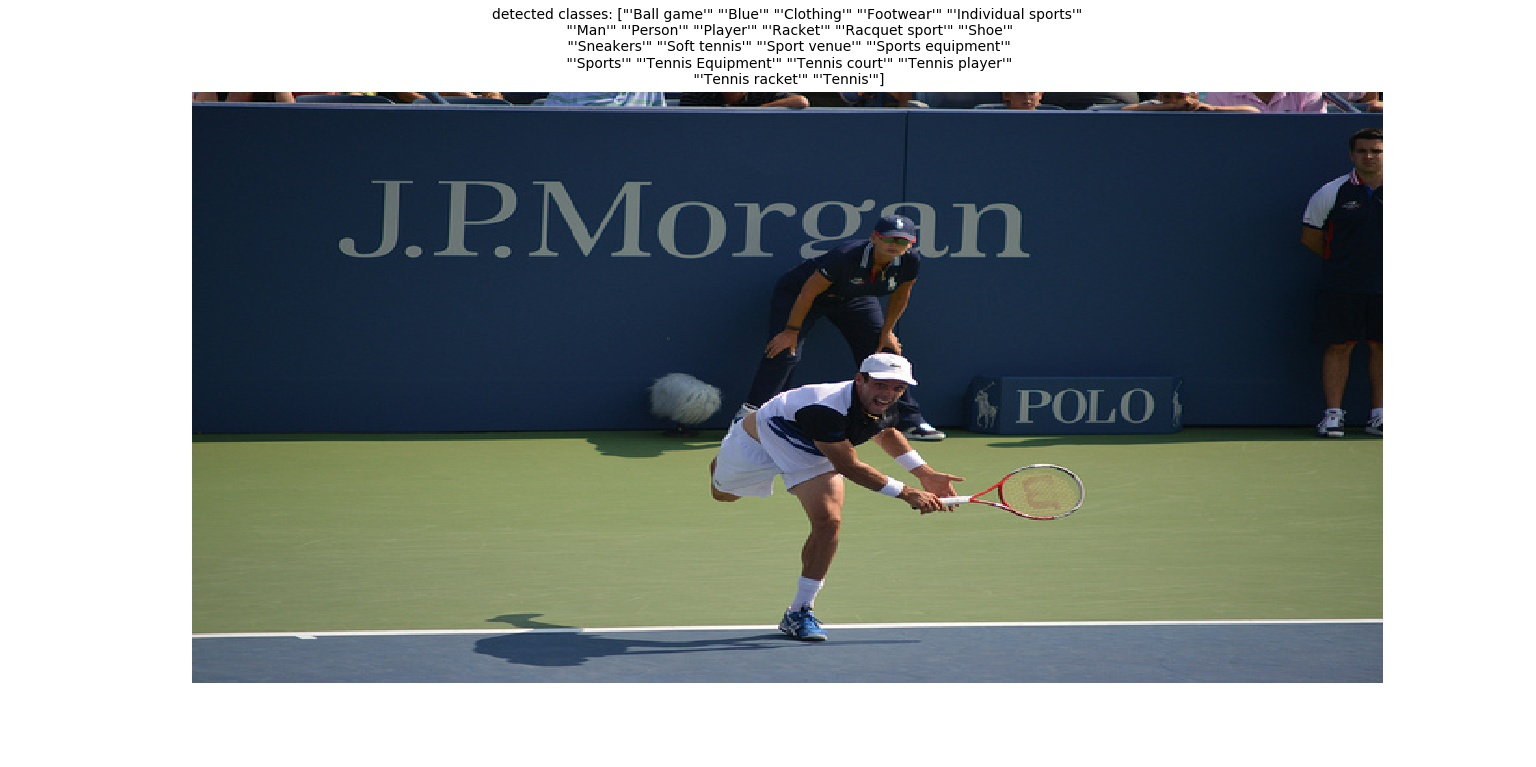
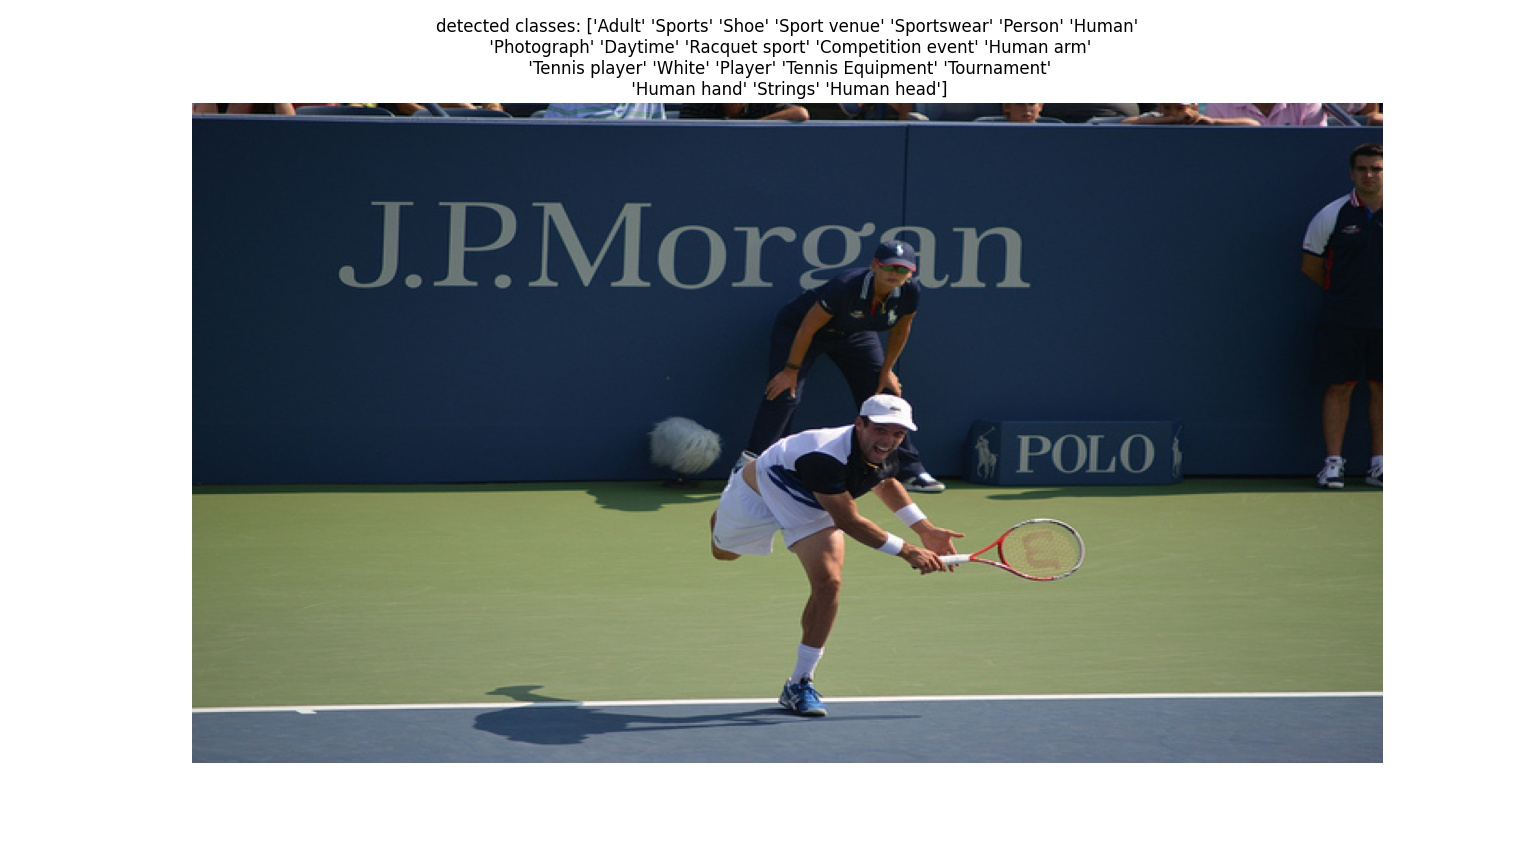
Open Images inference

diff --git a/infer.py b/infer.py
@@ -27,7 +27,7 @@ parser.add_argument('--model-name', type=str, default='tresnet_l')
 parser.add_argument('--image-size', type=int, default=448)
 # parser.add_argument('--dataset-type', type=str, default='MS-COCO')
 parser.add_argument('--th', type=float, default=0.75)
-
+parser.add_argument('--top-k', type=float, default=20)
 # ML-Decoder
 parser.add_argument('--use-ml-decoder', default=1, type=int)
 parser.add_argument('--num-of-groups', default=-1, type=int)  # full-decoding
@@ -66,7 +66,15 @@ def main():
     tensor_batch = torch.unsqueeze(tensor_img, 0).cuda().half() # float16 inference
     output = torch.squeeze(torch.sigmoid(model(tensor_batch)))
     np_output = output.cpu().detach().numpy()
-    detected_classes = classes_list[np_output > args.th]
+
+
+    ## Top-k predictions
+    # detected_classes = classes_list[np_output > args.th]
+    idx_sort = np.argsort(-np_output)
+    detected_classes = np.array(classes_list)[idx_sort][: args.top_k]
+    scores = np_output[idx_sort][: args.top_k]
+    idx_th = scores > args.th
+    detected_classes = detected_classes[idx_th]
     print('done\n')
 
     # displaying image

diff --git a/MODEL_ZOO.md b/MODEL_ZOO.md
@@ -8,6 +8,7 @@ In addition to full reproduction code, we provide a collection of pretrained mod
 | [TResNet_M ](https://miil-public-eu.oss-eu-central-1.aliyuncs.com/model-zoo/ML_Decoder/tresnet_m_COCO_224_84_2.pth) | 224 | MS-COCO | 84.2 |
 | [TResNet_L](https://miil-public-eu.oss-eu-central-1.aliyuncs.com/model-zoo/ML_Decoder/tresnet_l_COCO__448_90_0.pth)  | 448 | MS-COCO | 90.0 |
 | [TResNet_XL](https://miil-public-eu.oss-eu-central-1.aliyuncs.com/model-zoo/ML_Decoder/tresnet_xl_COCO_640_91_4.pth) | 640 | MS-COCO | 91.4 |
+| [TResNet_M](https://miil-public-eu.oss-eu-central-1.aliyuncs.com/model-zoo/ML_Decoder/tresnet_m_open_images_200_groups_86_8.pth) | 224 | OpenImages | 86.8 |
 
 ## MS-COCO  Validation Code
 After downloading the models, you can validate their MS-COCO scores using the following script:
@@ -41,15 +42,23 @@ which will result in:
 </p>
 
 
-<!--## Open Images Inference Code-->
+## Open Images Inference Code
 
-<!--```-->
-<!--python infer.py  \-->
-<!----model-name=tresnet_m \-->
-<!----model-path=./models_zoo/tresnet_m_open_images_200_groups_86_2.pth \-->
-<!----pic-path=./pics/000000000885.jpg \-->
-<!----image-size=224 \-->
-<!----num-of-groups=200 \-->
-<!----num-classes=9605 \-->
-<!----th=0.995-->
-<!--```-->
+```
+python infer.py  \
+--model-name=tresnet_m \
+--model-path=./models_zoo/tresnet_m_open_images_200_groups_86_8.pth \
+--pic-path=./pics/000000000885.jpg \
+--image-size=224 \
+--num-of-groups=200 \
+--num-classes=9605 \
+--th=0.97
+```
+which will result in:
+<p align="center">
+ <table class="tg">
+  <tr>
+    <td class="tg-c3ow"><img src="./pics/example_inference_open_images.jpeg" align="center" width="600" ></td>
+  </tr>
+</table>
+</p>

diff --git a/README.md b/README.md
@@ -42,6 +42,17 @@ spatial_embeddings = self.backbone(input_image) # backbone generates spatial emb
  
 logits = ml_decoder_head(spatial_embeddings) # transfrom spatial embeddings to logits
 ```
+
+## Inference Code and Pretrained Models
+See [Model Zoo](MODEL_ZOO.md)
+<p align="center">
+ <table class="tg">
+  <tr>
+    <td class="tg-c3ow"><img src="./pics/example_inference_open_images.jpeg" align="center" width="600" ></td>
+  </tr>
+</table>
+</p>
+
 ## Training Code 
 
 We share a full reproduction code for the article results.
